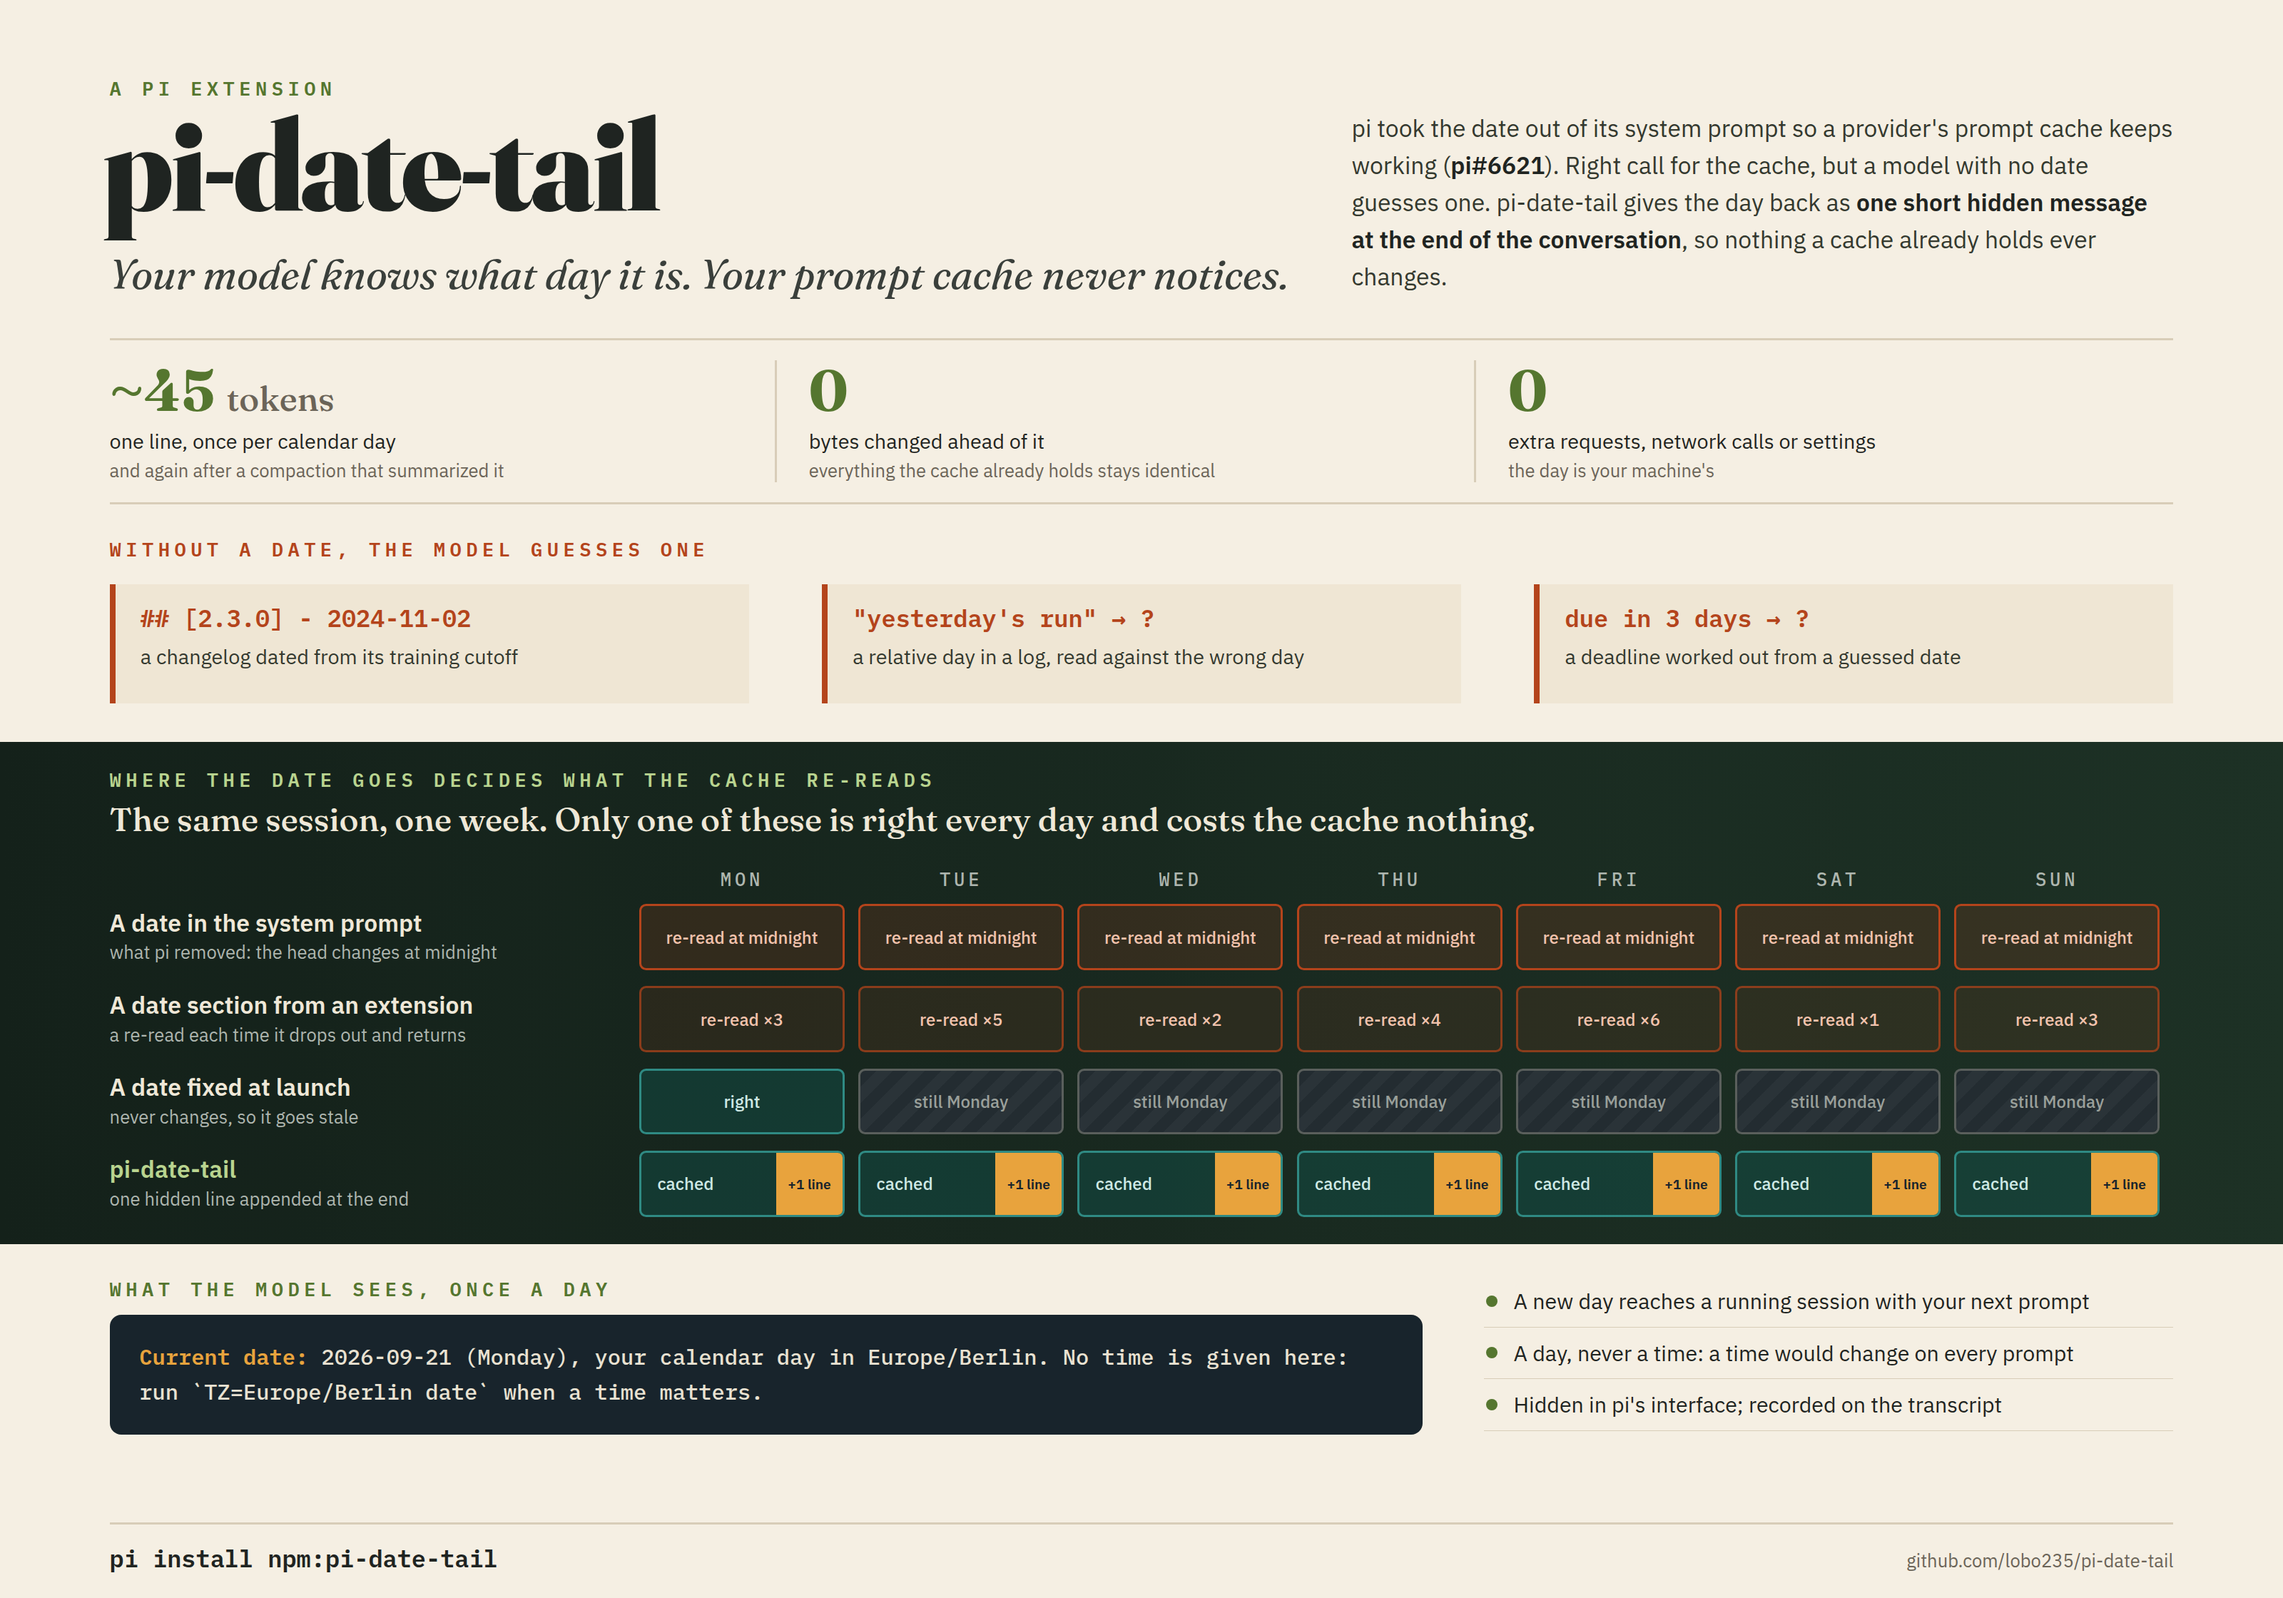
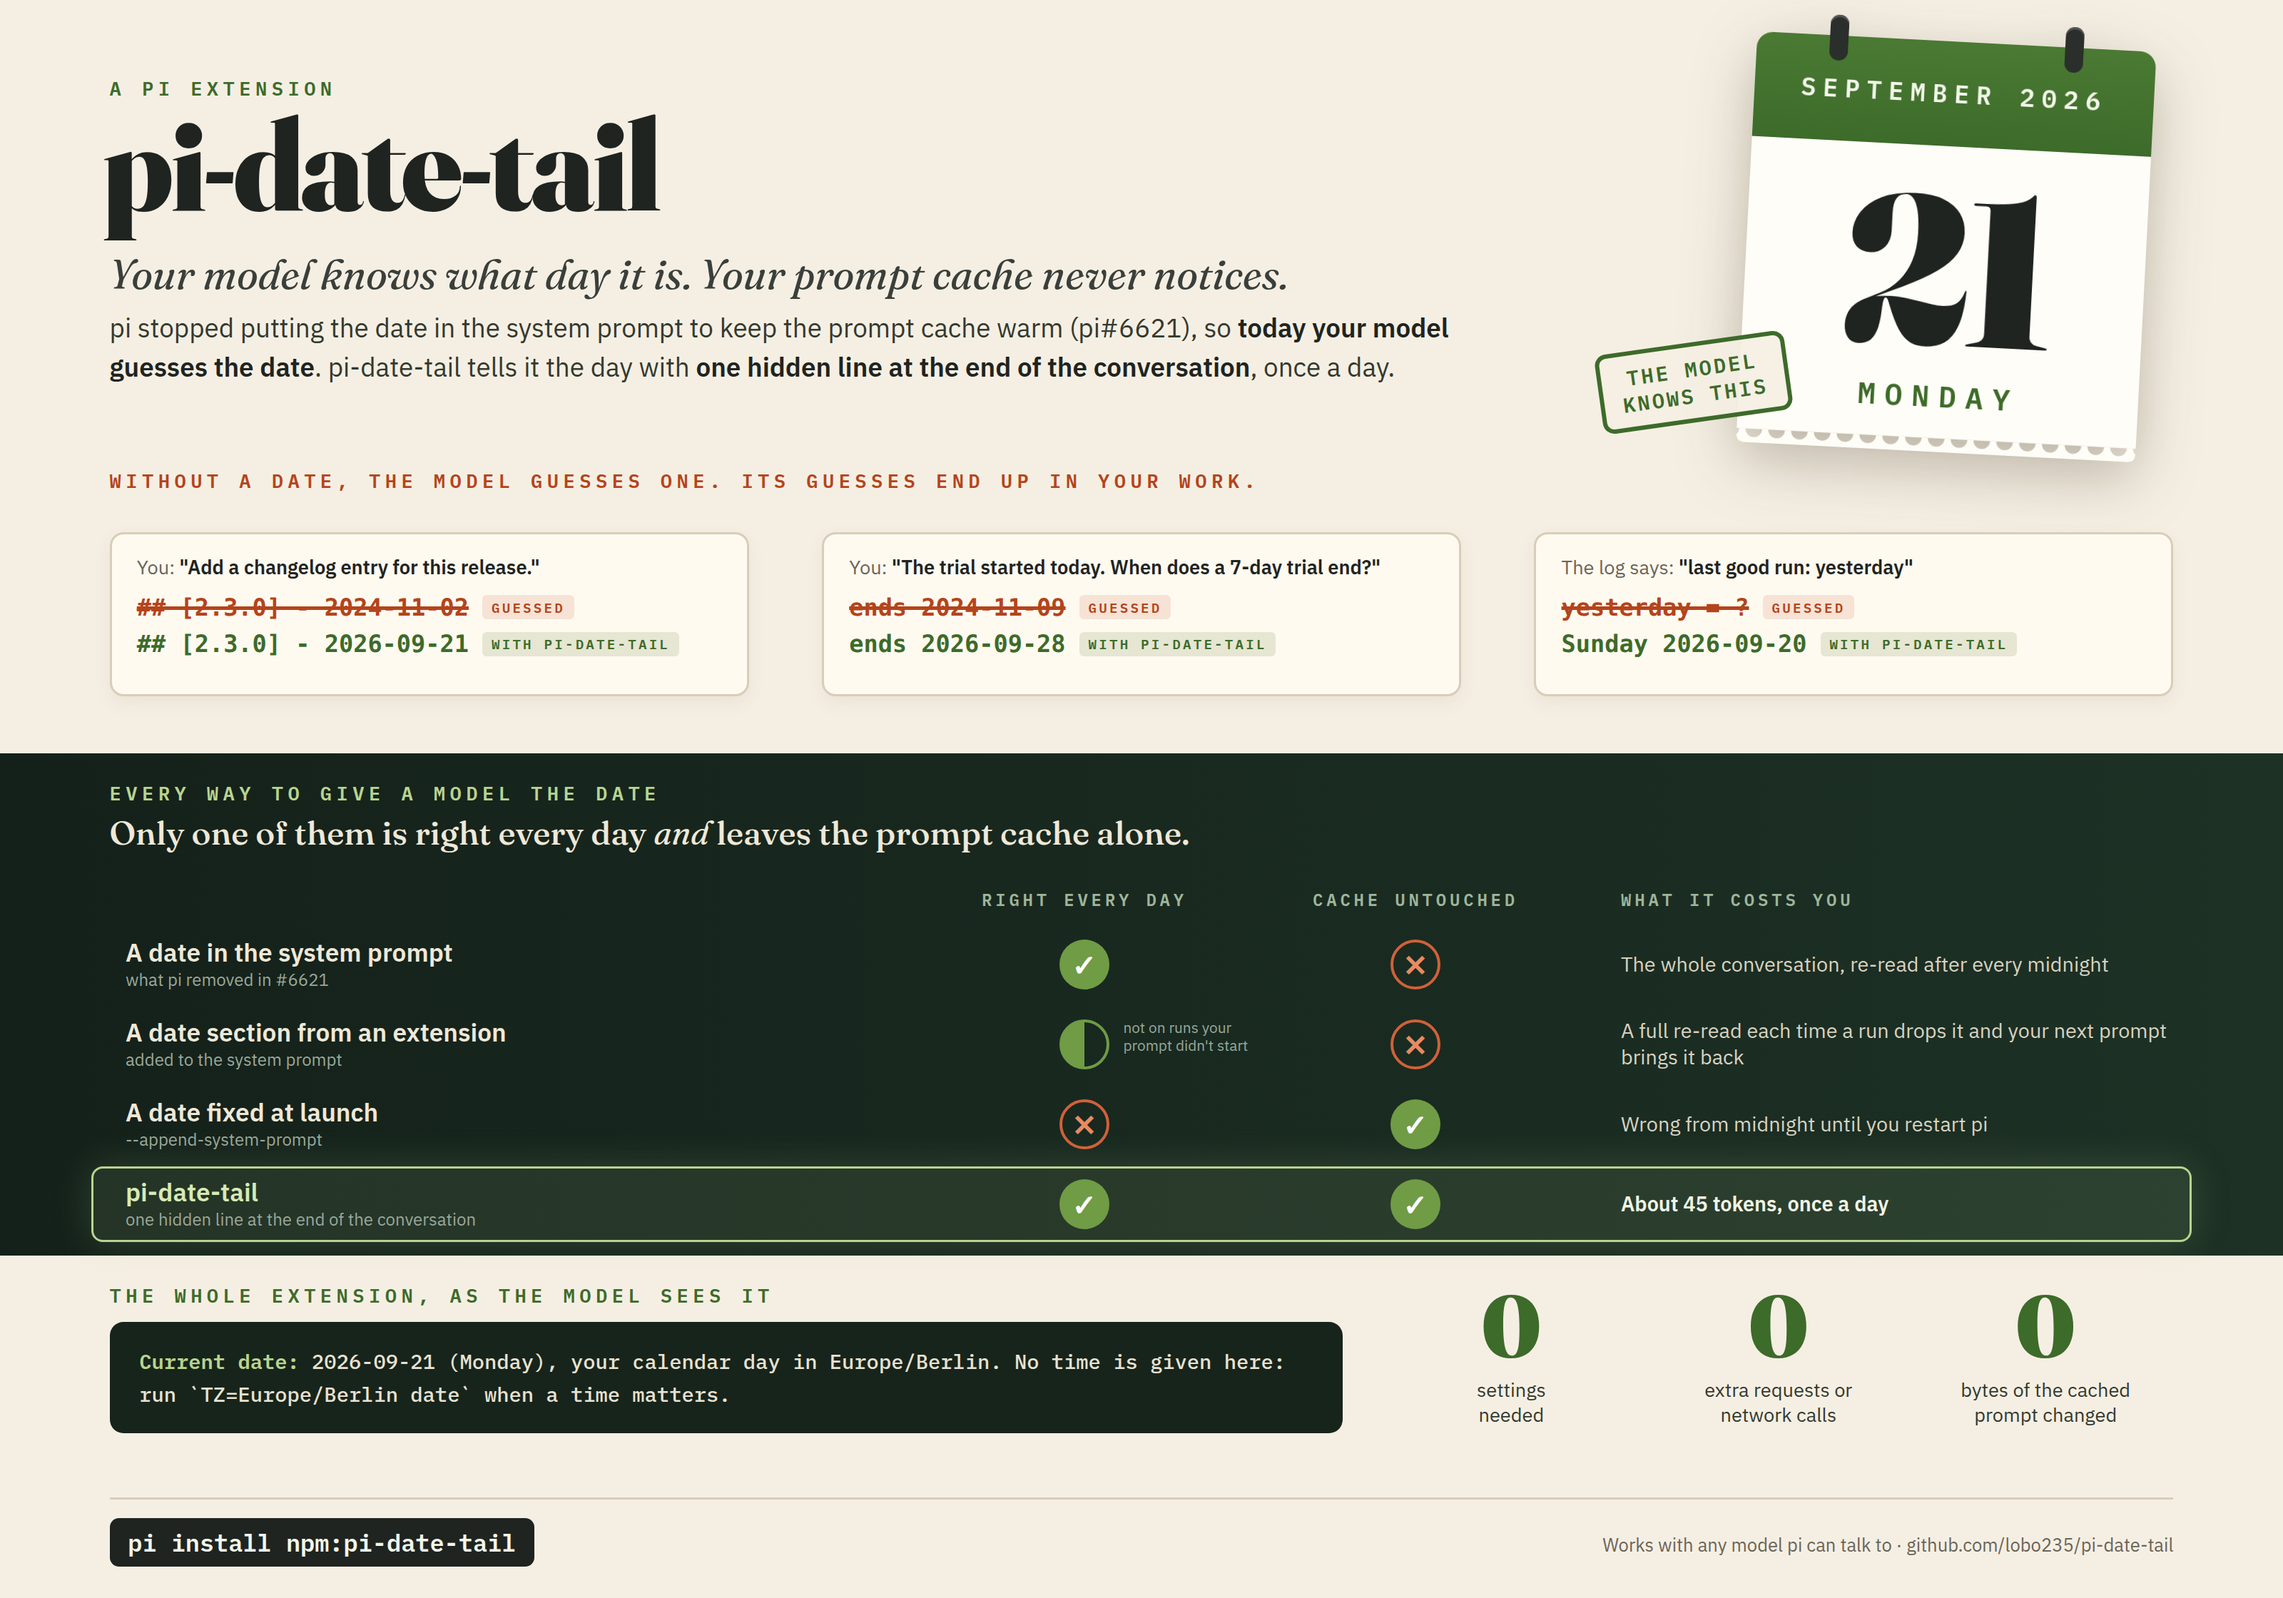
Infographic: lead with the benefit, show the before and after (#10)
Redesigns the README and pi.dev infographic to sell the extension rather
than document it:

- a single headline benefit up top, in the package's own motif;
- a before/after the reader gets at a glance;
- why it beats the alternatives, or who it is for;
- a clear install call.

Every number is taken from the README (measured), or is labelled
illustrative. The README alt text is updated to match.

No code changes.

diff --git a/README.md b/README.md
@@ -1,6 +1,6 @@
 # pi-date-tail
 
-![pi-date-tail: without a date the model guesses one, and where the date goes decides what the prompt cache re-reads, shown over one week for a date in the system prompt, a date section from an extension, a date fixed at launch, and pi-date-tail's one hidden line at the end](https://raw.githubusercontent.com/lobo235/pi-date-tail/main/.github/assets/infographic.png)
+![pi-date-tail: without a date the model guesses one, so a changelog gets dated 2024 and a deadline lands on the wrong day; of four ways to give a model the date, only pi-date-tail's one hidden line at the end of the conversation is right every day and leaves the prompt cache untouched](https://raw.githubusercontent.com/lobo235/pi-date-tail/main/.github/assets/infographic.png)
 
 **Your model knows what day it is. Your prompt cache never notices.** pi-date-tail gives [pi](https://github.com/earendil-works/pi)'s model the
 calendar day as one short hidden message at the end of the conversation, once a day, so nothing a prompt cache
